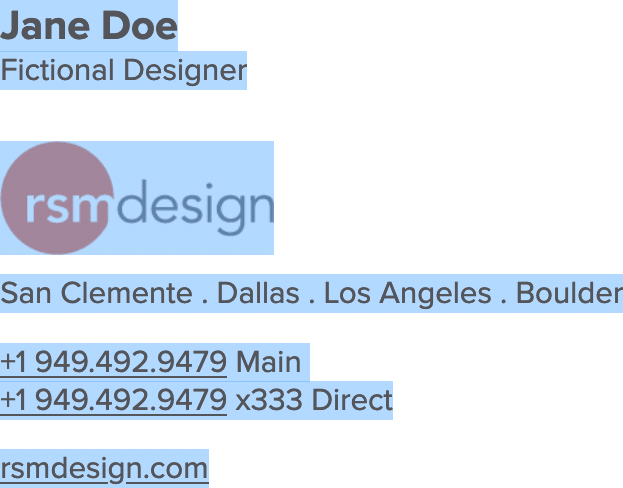
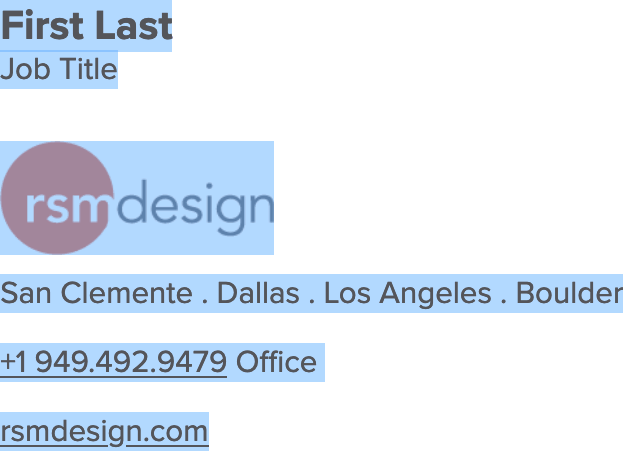
Updated screenshot and adjusted fallback fonts

Changed region(s): [[0.0, 0.2794, 1.0, 0.8692], [0.0, 0.0, 0.3965, 0.2173], [0.0, 0.9002, 0.3355, 0.9933]]

diff --git a/email-signatures.html b/email-signatures.html
@@ -58,20 +58,20 @@
 		</form>
 		<hr style="margin-bottom:3em;"/>
 		
-		<div dir="ltr" style="color:#54565A;font-weight:normal;font:400 12px/1.2 'Proxima Nova',Verdana,-apple-system,BlinkMacSystemFont,Tahoma,'Helvetica Neue',Helvetica,Roboto,Noto,Arial,sans-serif;">
+		<div dir="ltr" style="color:#54565A;font-weight:normal;font:400 12px/1.2 'Proxima Nova',Avenir,'Avenir Next',Verdana,-apple-system,BlinkMacSystemFont,Tahoma,'Helvetica Neue',Helvetica,Roboto,Noto,Arial,sans-serif;">
 			
 			<!-- NAME -->
 
-			<p style="margin:0;color:#54565A;font-weight:bold;font-weight:700;font:700 16px/1.2 'Proxima Nova',Verdana,-apple-system,BlinkMacSystemFont,Tahoma,'Helvetica Neue',Helvetica,Roboto,Noto,Arial,sans-serif;">{{ user.name }}</p>
-			<p style="margin:0 0 20px;font:400 12px/1.2 'Proxima Nova',Verdana,-apple-system,BlinkMacSystemFont,Tahoma,'Helvetica Neue',Helvetica,Roboto,Noto,Arial,sans-serif;">{{ user.title }}</p>
+			<p style="margin:0;color:#54565A;font-weight:bold;font-weight:700;font:700 16px/1.2 'Proxima Nova',Avenir,'Avenir Next',Verdana,-apple-system,BlinkMacSystemFont,Tahoma,'Helvetica Neue',Helvetica,Roboto,Noto,Arial,sans-serif;">{{ user.name }}</p>
+			<p style="margin:0 0 20px;font:400 12px/1.2 'Proxima Nova',Avenir,'Avenir Next',Verdana,-apple-system,BlinkMacSystemFont,Tahoma,'Helvetica Neue',Helvetica,Roboto,Noto,Arial,sans-serif;">{{ user.title }}</p>
 			
 			<a href="https://rsmdesign.com/" target="_blank"><img style="width:105px;max-width:100%;height:auto;" src="https://docs.google.com/uc?export=download&amp;id=13f1DpIhzCC0uM1aD4g8YOCPzfdv8ecY2&amp;revid=0B3Ii1VHj0jBlczRmYjRoY2dPdU1HMGNUT2U0bmszVjlIYkpFPQ" alt="RSM Design logo"></a>
 
-			<p style="margin:4px 0 12px; font:400 12px/1.2 'Proxima Nova',Verdana,-apple-system,BlinkMacSystemFont,Tahoma,'Helvetica Neue',Helvetica,Roboto,Noto,Arial,sans-serif;">San Clemente&nbsp;. Dallas&nbsp;. Los Angeles&nbsp;. Boulder</p>
+			<p style="margin:4px 0 12px; font:400 12px/1.2 'Proxima Nova',Avenir,'Avenir Next',Verdana,-apple-system,BlinkMacSystemFont,Tahoma,'Helvetica Neue',Helvetica,Roboto,Noto,Arial,sans-serif;">San Clemente&nbsp;. Dallas&nbsp;. Los Angeles&nbsp;. Boulder</p>
 			
 			<!-- PHONE NUMBERS -->
 
-			<p style="margin:12px 0 0; font:400 12px/1.2 'Proxima Nova',Verdana,-apple-system,BlinkMacSystemFont,Tahoma,'Helvetica Neue',Helvetica,Roboto,Noto,Arial,sans-serif;">
+			<p style="margin:12px 0 0; font:400 12px/1.2 'Proxima Nova',Avenir,'Avenir Next',Verdana,-apple-system,BlinkMacSystemFont,Tahoma,'Helvetica Neue',Helvetica,Roboto,Noto,Arial,sans-serif;">
 				<a v-if="user.office=='San Clemente'" v-bind:href="'tel:+1' + user.scphone.replace(/\./g, '')" target="_blank" style="color:#54565A;text-decoration-skip:ink;text-decoration-skip-ink:auto;">+1&nbsp;{{ user.scphone.replace(/\-/g, '.') }}</a>
 				<a v-if="user.office=='Dallas'" v-bind:href="'tel:+1' + user.dallasphone.replace(/\./g, '')" target="_blank" style="color:#54565A;text-decoration-skip:ink;text-decoration-skip-ink:auto;">+1&nbsp;{{ user.dallasphone.replace(/\-/g, '.') }}</a>
 				<a v-if="user.office=='Los Angeles'" v-bind:href="'tel:+1' + user.laphone.replace(/\./g, '')" target="_blank" style="color:#54565A;text-decoration-skip:ink;text-decoration-skip-ink:auto;">+1&nbsp;{{ user.laphone.replace(/\-/g, '.') }}</a>
@@ -80,11 +80,11 @@
 				 Office
 			</p>
 
-			<p v-if="user.mphone" style="margin:0; font:400 12px/1.2 'Proxima Nova',Verdana,-apple-system,BlinkMacSystemFont,Tahoma,'Helvetica Neue',Helvetica,Roboto,Noto,Arial,sans-serif;"><a v-bind:href="'tel:+1' + user.mphone.replace(/\./g, '')" target="_blank" style="color:#54565A;text-decoration-skip:ink;text-decoration-skip-ink:auto;">+1&nbsp;{{ user.mphone.replace(/\-/g, '.') }}</a> Mobile</p>
+			<p v-if="user.mphone" style="margin:0; font:400 12px/1.2 'Proxima Nova',Avenir,'Avenir Next',Verdana,-apple-system,BlinkMacSystemFont,Tahoma,'Helvetica Neue',Helvetica,Roboto,Noto,Arial,sans-serif;"><a v-bind:href="'tel:+1' + user.mphone.replace(/\./g, '')" target="_blank" style="color:#54565A;text-decoration-skip:ink;text-decoration-skip-ink:auto;">+1&nbsp;{{ user.mphone.replace(/\-/g, '.') }}</a> Mobile</p>
 			
 			<!-- URL -->
 
-			<p style="margin:12px 0 0; font:400 12px/1.2 'Proxima Nova',Verdana,-apple-system,BlinkMacSystemFont,Tahoma,'Helvetica Neue',Helvetica,Roboto,Noto,Arial,sans-serif;"><a href="https://rsmdesign.com/" target="_blank" style="color:#54565A;font-weight:bold;font-weight:500;font:400 12px/1.2 'Proxima Nova',Verdana,-apple-system,BlinkMacSystemFont,Tahoma,'Helvetica Neue',Helvetica,Roboto,Noto,Arial,sans-serif;text-decoration-skip:ink;text-decoration-skip-ink:auto;">rsmdesign.com</a></p>
+			<p style="margin:12px 0 0; font:400 12px/1.2 'Proxima Nova',Avenir,'Avenir Next',Verdana,-apple-system,BlinkMacSystemFont,Tahoma,'Helvetica Neue',Helvetica,Roboto,Noto,Arial,sans-serif;"><a href="https://rsmdesign.com/" target="_blank" style="color:#54565A;font-weight:bold;font-weight:500;font:400 12px/1.2 'Proxima Nova',Avenir,'Avenir Next',Verdana,-apple-system,BlinkMacSystemFont,Tahoma,'Helvetica Neue',Helvetica,Roboto,Noto,Arial,sans-serif;text-decoration-skip:ink;text-decoration-skip-ink:auto;">rsmdesign.com</a></p>
 		</div>
 	</section>
 </body>

diff --git a/assets/css/email-signatures.css b/assets/css/email-signatures.css
@@ -1,6 +1,6 @@
 body {
   background: #f0f0f0;
-  font: 400 1em/1.5 'Proxima Nova', Verdana, -apple-system, BlinkMacSystemFont, Tahoma, 'Helvetica Neue', Helvetica, Roboto, Noto, Arial, sans-serif;
+  font: 400 1em/1.5 'Proxima Nova',Avenir,'Avenir Next', Verdana, -apple-system, BlinkMacSystemFont, Tahoma, 'Helvetica Neue', Helvetica, Roboto, Noto, Arial, sans-serif;
 }
 
 section {
